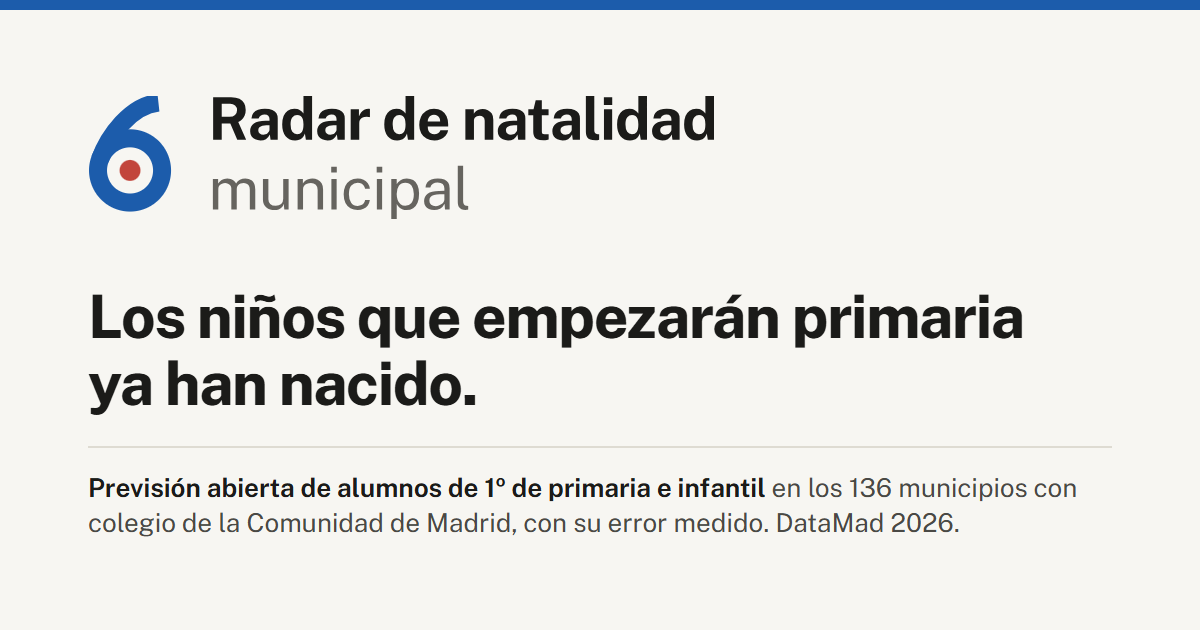
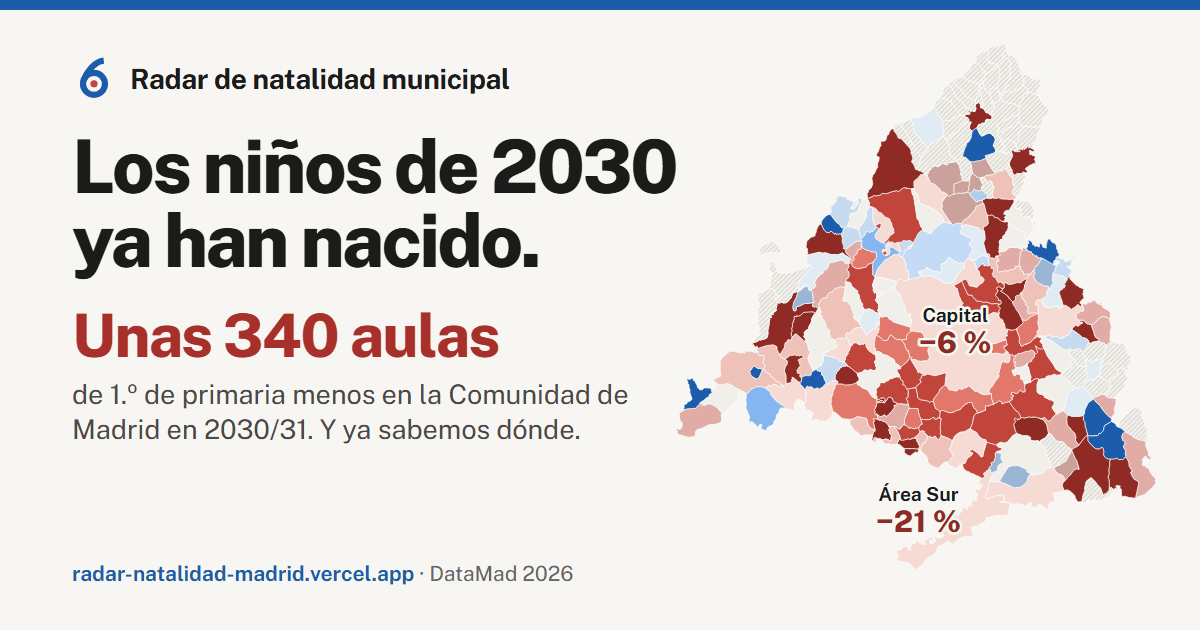
Share the map and the anchor phrase in the social preview
New 1200x630 og.png drawn from the same data and colour scale as the web:
the municipal map with the capital and Sur labels, "Los niños de 2030 ya
han nacido" and "Unas 340 aulas". Open Graph and Twitter titles,
descriptions and alt texts updated; site name, image type and theme colour
added; ?v=2 so cached previews refresh.

Changed region(s): [[0.0617, 0.0905, 0.9867, 0.9048], [0.0617, 0.8746, 0.4933, 0.9349]]

diff --git a/web/index.html b/web/index.html
@@ -9,18 +9,24 @@
 <link rel="icon" href="favicon.svg" type="image/svg+xml">
 <link rel="icon" href="favicon-32.png" type="image/png" sizes="32x32">
 <link rel="apple-touch-icon" href="apple-touch-icon.png">
+<meta name="theme-color" content="#1c5cab">
 <meta property="og:type" content="website">
 <meta property="og:locale" content="es_ES">
-<meta property="og:title" content="Radar de natalidad municipal">
-<meta property="og:description" content="Los niños que empezarán primaria ya han nacido. Previsión abierta de alumnos de 1.º de primaria e infantil en cada municipio de la Comunidad de Madrid, con su error medido.">
+<meta property="og:site_name" content="Radar de natalidad municipal">
+<meta property="og:title" content="Los niños de 2030 ya han nacido · Radar de natalidad municipal">
+<meta property="og:description" content="Unas 340 aulas de 1.º de primaria menos en la Comunidad de Madrid en 2030/31, y ya sabemos dónde. Previsión abierta por municipio, con su error medido en cursos ya cerrados.">
 <link rel="canonical" href="https://radar-natalidad-madrid.vercel.app/">
 <meta property="og:url" content="https://radar-natalidad-madrid.vercel.app/">
-<meta property="og:image" content="https://radar-natalidad-madrid.vercel.app/og.png">
+<meta property="og:image" content="https://radar-natalidad-madrid.vercel.app/og.png?v=2">
+<meta property="og:image:type" content="image/png">
 <meta property="og:image:width" content="1200">
 <meta property="og:image:height" content="630">
-<meta property="og:image:alt" content="Logotipo del Radar de natalidad municipal, un 6 azul con un punto rojo dentro, y la frase «Los niños que empezarán primaria ya han nacido».">
+<meta property="og:image:alt" content="Mapa de los municipios de la Comunidad de Madrid coloreado según el cambio previsto en 1.º de primaria (capital −6 %, área Sur −21 %) junto a la frase «Los niños de 2030 ya han nacido» y «Unas 340 aulas de 1.º de primaria menos».">
 <meta name="twitter:card" content="summary_large_image">
-<meta name="twitter:image" content="https://radar-natalidad-madrid.vercel.app/og.png">
+<meta name="twitter:title" content="Los niños de 2030 ya han nacido · Radar de natalidad municipal">
+<meta name="twitter:description" content="Unas 340 aulas de 1.º de primaria menos en la Comunidad de Madrid en 2030/31, y ya sabemos dónde. Previsión abierta por municipio, con su error medido.">
+<meta name="twitter:image" content="https://radar-natalidad-madrid.vercel.app/og.png?v=2">
+<meta name="twitter:image:alt" content="Mapa del cambio previsto en 1.º de primaria por municipio de la Comunidad de Madrid y la frase «Los niños de 2030 ya han nacido».">
 <link rel="preload" href="fuentes/PublicSans.woff2" as="font" type="font/woff2" crossorigin>
 <link rel="stylesheet" href="estilo.css">
 </head>
